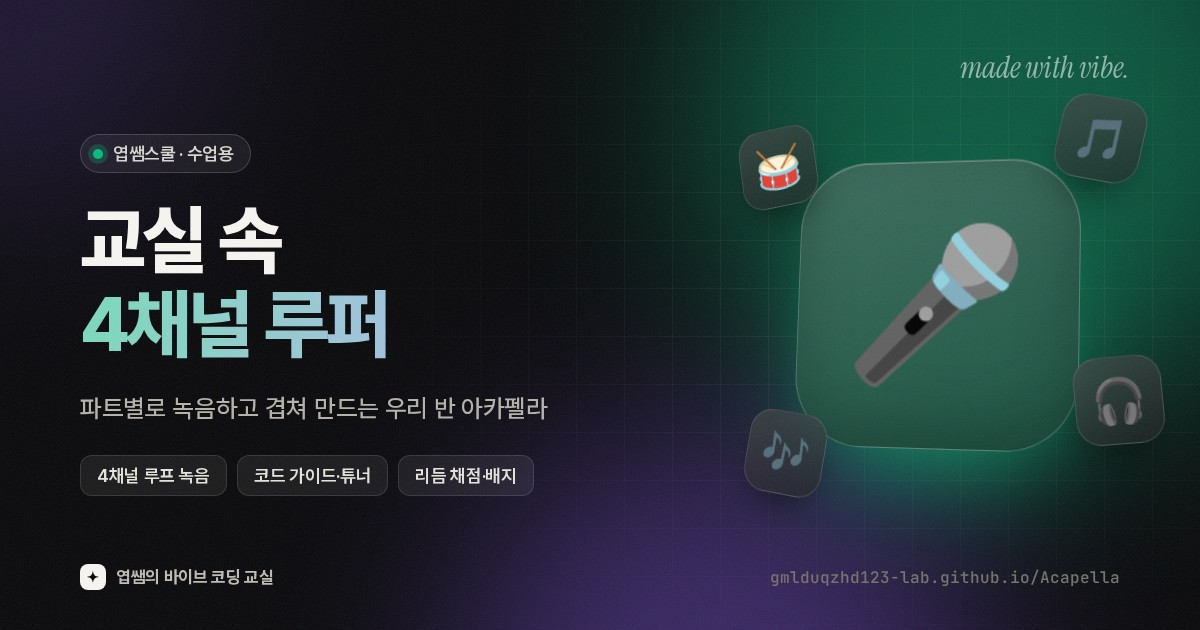
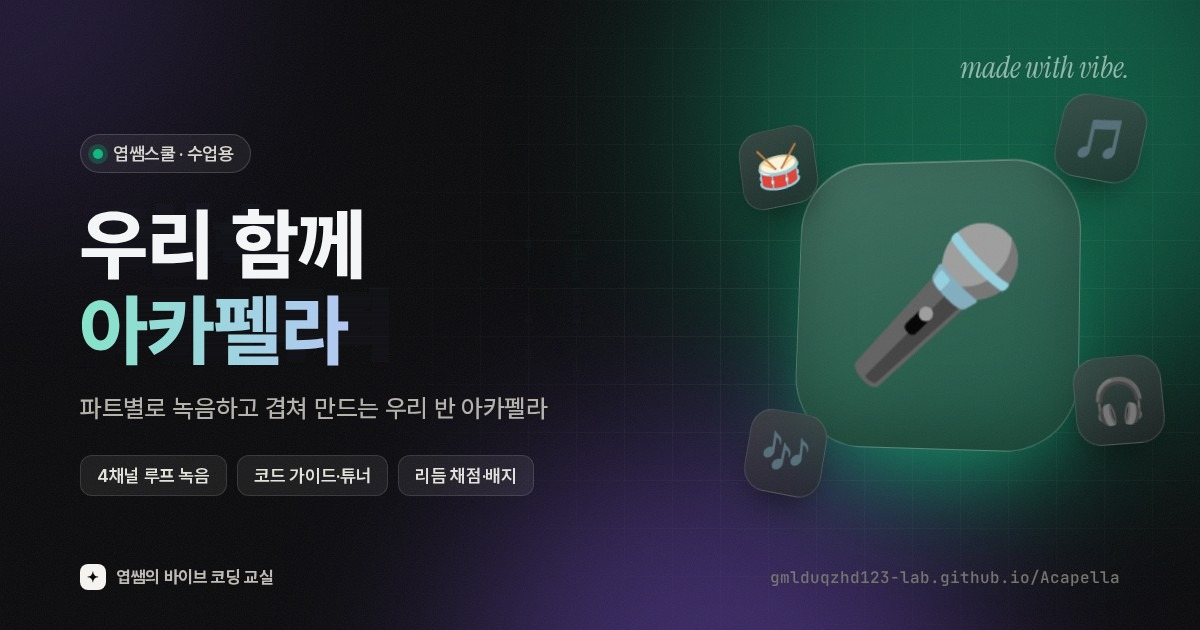
Rename the web app to 우리 함께 아카펠라
- Page title, heading, and share metadata on the classroom page
- Studio title and footer link refer to the new name
- Share image redrawn with the new title; image URL versioned so
  messengers fetch the new preview

Claude-Session: https://claude.ai/code/session_01YHUDenU88dfcm97qBHaLzs

Changed region(s): [[0.0617, 0.3317, 0.3392, 0.6032]]

diff --git a/index.html b/index.html
@@ -3,22 +3,22 @@
 <head>
     <meta charset="UTF-8">
     <meta name="viewport" content="width=device-width, initial-scale=1.0">
-    <title>교실 속 4채널 루퍼 - 엽쌤스쿨</title>
+    <title>우리 함께 아카펠라 - 엽쌤스쿨</title>
     <meta name="description" content="파트별로 녹음하고 겹쳐 만드는 우리 반 아카펠라">
     <meta property="og:type" content="website">
     <meta property="og:site_name" content="엽쌤스쿨">
-    <meta property="og:title" content="교실 속 4채널 루퍼">
+    <meta property="og:title" content="우리 함께 아카펠라">
     <meta property="og:description" content="파트별로 녹음하고 겹쳐 만드는 우리 반 아카펠라">
     <meta property="og:url" content="https://gmlduqzhd123-lab.github.io/Acapella/">
     <meta property="og:locale" content="ko_KR">
-    <meta property="og:image" content="https://gmlduqzhd123-lab.github.io/Acapella/og-image.jpg">
-    <meta property="og:image:secure_url" content="https://gmlduqzhd123-lab.github.io/Acapella/og-image.jpg">
+    <meta property="og:image" content="https://gmlduqzhd123-lab.github.io/Acapella/og-image.jpg?v=2">
+    <meta property="og:image:secure_url" content="https://gmlduqzhd123-lab.github.io/Acapella/og-image.jpg?v=2">
     <meta property="og:image:type" content="image/jpeg">
     <meta property="og:image:width" content="1200">
     <meta property="og:image:height" content="630">
-    <meta property="og:image:alt" content="교실 속 4채널 루퍼">
+    <meta property="og:image:alt" content="우리 함께 아카펠라">
     <meta name="twitter:card" content="summary_large_image">
-    <meta name="twitter:image" content="https://gmlduqzhd123-lab.github.io/Acapella/og-image.jpg">
+    <meta name="twitter:image" content="https://gmlduqzhd123-lab.github.io/Acapella/og-image.jpg?v=2">
     <link rel="stylesheet" href="https://cdn.jsdelivr.net/gh/orioncactus/pretendard@v1.3.9/dist/web/static/pretendard.min.css">
     <style>
         :root {
@@ -304,7 +304,7 @@
 <body>
 
     <header class="app-header">
-        <h1>🎤 교실 속 4채널 루퍼</h1>
+        <h1>🎤 우리 함께 아카펠라</h1>
         <div class="header-actions">
             <button class="chip-btn" id="badgeChip" onclick="openTab('show')">🏅 0/9</button>
             <button class="chip-btn" onclick="openHelp()">❓ 사용법</button>

diff --git a/studio.html b/studio.html
@@ -3,15 +3,15 @@
 <head>
     <meta charset="UTF-8">
     <meta name="viewport" content="width=device-width, initial-scale=1.0">
-    <title>아카펠라 스튜디오 - 엽쌤스쿨</title>
+    <title>아카펠라 스튜디오 - 우리 함께 아카펠라</title>
     <meta name="description" content="혼자서 여러 성부를 쌓아 만드는 아카펠라 루프 스튜디오">
     <meta property="og:type" content="website">
     <meta property="og:site_name" content="엽쌤스쿨">
-    <meta property="og:title" content="아카펠라 스튜디오">
+    <meta property="og:title" content="아카펠라 스튜디오 · 우리 함께 아카펠라">
     <meta property="og:description" content="혼자서 여러 성부를 쌓아 만드는 아카펠라 루프 스튜디오">
     <meta property="og:url" content="https://gmlduqzhd123-lab.github.io/Acapella/studio.html">
     <meta property="og:locale" content="ko_KR">
-    <meta property="og:image" content="https://gmlduqzhd123-lab.github.io/Acapella/og-image.jpg">
+    <meta property="og:image" content="https://gmlduqzhd123-lab.github.io/Acapella/og-image.jpg?v=2">
     <meta name="twitter:card" content="summary_large_image">
     <link rel="stylesheet" href="https://cdn.jsdelivr.net/gh/orioncactus/pretendard@v1.3.9/dist/web/static/pretendard.min.css">
     <style>
@@ -247,7 +247,7 @@
     </section>
 
     <footer>
-        엽쌤스쿨 · <a href="index.html">수업용 4채널 루퍼</a> · <a href="https://gmlduqzhd123-lab.github.io/YScode/">엽쌤의 다른 앱 보기 →</a><br>
+        엽쌤스쿨 · <a href="index.html">우리 함께 아카펠라 (수업 모드)</a> · <a href="https://gmlduqzhd123-lab.github.io/YScode/">엽쌤의 다른 앱 보기 →</a><br>
         © 2026 엽쌤스쿨. All rights reserved. 이 웹앱의 디자인과 코드의 저작권은 엽쌤스쿨에 있으며, 허락 없이 복제·배포하거나 상업적으로 이용할 수 없습니다.<br>
         직접 녹음한 음원의 권리는 녹음한 사람에게 있습니다. 녹음과 프로젝트는 이 기기의 브라우저에만 저장돼요.<br>
         Pretendard 글꼴 © Kil Hyung-jin, SIL Open Font License 1.1
